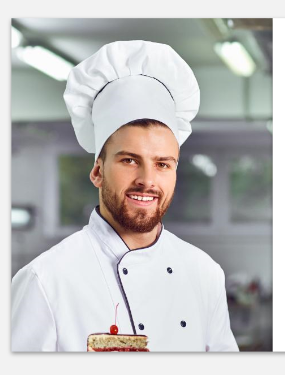
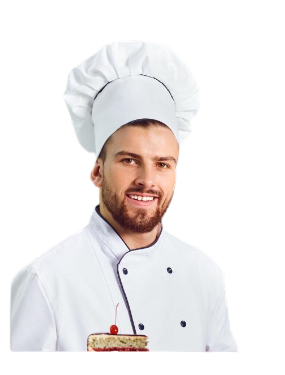
Ajout du corp de la page Qui suis-je

diff --git a/Qui-suis-je.html b/Qui-suis-je.html
@@ -26,7 +26,7 @@
                 <div class="col-sm-1 p-1"><img src="assets/img/LogoPâtissier1.png" alt="Logo du site du Pâtissier">
                 </div>
                 <div class="col-sm-10 p-3 h1">Jonh Le Patissier</div>
-                <div class="col p-4 align-middle">
+                <div class="col p-4">
                     <button class="navbar-toggler" type="button" data-toggle="collapse"
                         data-target="#navbarToggleExternalContent" aria-controls="navbarToggleExternalContent"
                         aria-expanded="false" aria-label="Toggle navigation">
@@ -35,20 +35,59 @@
                 </div>
             </div>
         </nav>
-    </div>
+        <div class="container-fluid text-dark">
+            <div class="m-5 h1">Qui suis-je ?</div>
+            <div class="col-10 d-flex">
+                <div class="col-4 border div-img"><img src="assets/img/PhotoPâtissier.PNG" alt="Portrait du Pâtissier">
+                </div>
+                <div class="col-6 border">Lorem ipsum dolor sit amet, consectetur adipiscing elit. Suspendisse lacinia,
+                    velit quis vestibulum convallis,
+                    purus tellus porttitor nibh, vitae euismod quam ipsum non velit. Nam tincidunt facilisis ex, non
+                    feugiat massa dignissim et.
+                    Aliquam at convallis quam. Lorem ipsum dolor sit amet, consectetur adipiscing elit. Praesent pretium
+                    nisi vitae augue condimentum
+                    faucibus. Fusce volutpat, sem nec eleifend tincidunt, est mi aliquam arcu, vel consectetur magna
+                    elit nec diam. Aliquam feugiat
+                    accumsan varius. Interdum et malesuada fames ac ante ipsum primis in faucibus. Donec in purus leo.
+                    Proin nec vestibulum quam, at
+                    convallis nulla. Proin tincidunt elit eu semper commodo. Proin eros mauris, tempor vitae lobortis
+                    eget, tempus ut sem.
+
+                    Nunc vitae varius arcu. Phasellus varius risus aliquam congue vulputate. Curabitur tellus urna,
+                    pharetra non laoreet id,
+                    tristique a magna. In pulvinar, ipsum id auctor suscipit, eros lorem accumsan quam, sit amet
+                    pulvinar magna dui vitae sapien.
+                    Phasellus ullamcorper eros maximus ipsum lobortis, non luctus velit placerat. Donec varius, felis
+                    vel pulvinar tincidunt,
+                    felis diam sollicitudin augue, eu luctus mauris orci at massa. Vivamus odio nisi, venenatis sit amet
+                    ligula a, ultrices luctus nunc.
+                    Lorem ipsum dolor sit amet, consectetur adipiscing elit. Duis tincidunt ipsum orci, aliquet
+                    condimentum erat sodales a.
+                    Curabitur ac varius lorem, nec faucibus est. Ut feugiat augue sit amet vestibulum dictum.
+
+                    Amet ligula a, ultrices luctus nunc. Lorem ipsum dolor sit amet, consectetur adipiscing elit. Duis
+                    tincidunt ipsum orci,
+                    aliquet condimentum erat sodales a. Curabitur ac varius lorem, nec faucibus est. Ut feugiat augue
+                    sit amet vestibulum dictum.
+                </div>
+            </div>
+        </div>
 
 
-    <!-- Optional JavaScript; choose one of the two! -->
 
-    <!-- Option 1: jQuery and Bootstrap Bundle (includes Popper) -->
-    <script src="https://code.jquery.com/jquery-3.5.1.slim.min.js"
-        integrity="sha384-DfXdz2htPH0lsSSs5nCTpuj/zy4C+OGpamoFVy38MVBnE+IbbVYUew+OrCXaRkfj" crossorigin="anonymous">
-    </script>
-    <script src="https://cdn.jsdelivr.net/npm/bootstrap@4.5.3/dist/js/bootstrap.bundle.min.js"
-        integrity="sha384-ho+j7jyWK8fNQe+A12Hb8AhRq26LrZ/JpcUGGOn+Y7RsweNrtN/tE3MoK7ZeZDyx" crossorigin="anonymous">
-    </script>
 
-    <!-- Option 2: jQuery, Popper.js, and Bootstrap JS
+
+        <!-- Optional JavaScript; choose one of the two! -->
+
+        <!-- Option 1: jQuery and Bootstrap Bundle (includes Popper) -->
+        <script src="https://code.jquery.com/jquery-3.5.1.slim.min.js"
+            integrity="sha384-DfXdz2htPH0lsSSs5nCTpuj/zy4C+OGpamoFVy38MVBnE+IbbVYUew+OrCXaRkfj" crossorigin="anonymous">
+        </script>
+        <script src="https://cdn.jsdelivr.net/npm/bootstrap@4.5.3/dist/js/bootstrap.bundle.min.js"
+            integrity="sha384-ho+j7jyWK8fNQe+A12Hb8AhRq26LrZ/JpcUGGOn+Y7RsweNrtN/tE3MoK7ZeZDyx" crossorigin="anonymous">
+        </script>
+
+        <!-- Option 2: jQuery, Popper.js, and Bootstrap JS
     <script src="https://code.jquery.com/jquery-3.5.1.slim.min.js" integrity="sha384-DfXdz2htPH0lsSSs5nCTpuj/zy4C+OGpamoFVy38MVBnE+IbbVYUew+OrCXaRkfj" crossorigin="anonymous"></script>
     <script src="https://cdn.jsdelivr.net/npm/popper.js@1.16.1/dist/umd/popper.min.js" integrity="sha384-9/reFTGAW83EW2RDu2S0VKaIzap3H66lZH81PoYlFhbGU+6BZp6G7niu735Sk7lN" crossorigin="anonymous"></script>
     <script src="https://cdn.jsdelivr.net/npm/bootstrap@4.5.3/dist/js/bootstrap.min.js" integrity="sha384-w1Q4orYjBQndcko6MimVbzY0tgp4pWB4lZ7lr30WKz0vr/aWKhXdBNmNb5D92v7s" crossorigin="anonymous"></script>

diff --git a/assets/css/style-qui-suis-je.css b/assets/css/style-qui-suis-je.css
@@ -11,3 +11,8 @@ img {
     width: 5rem;
     height: 5rem;
 }
+
+.div-img img {
+    width: 30rem;
+    height: 30rem;
+}
